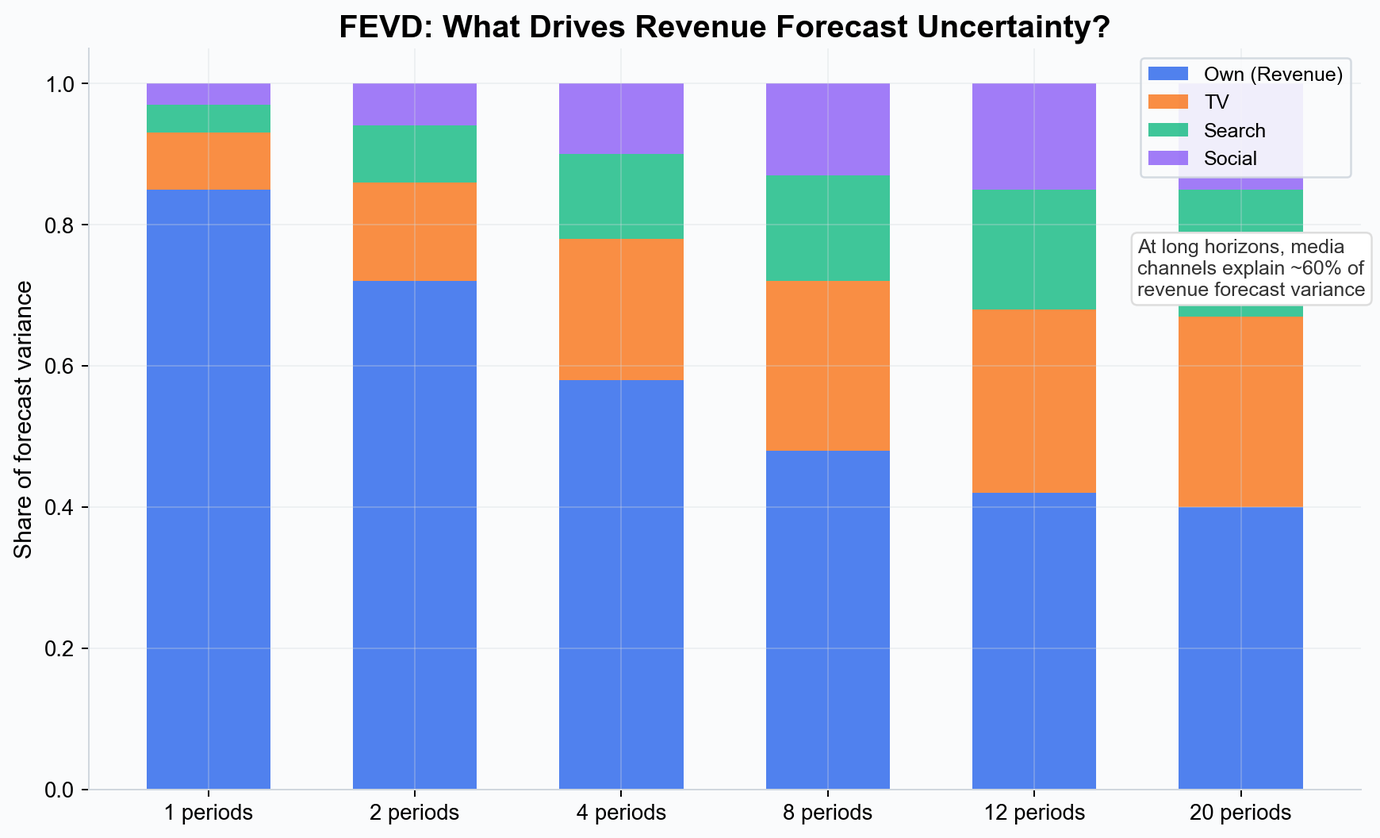
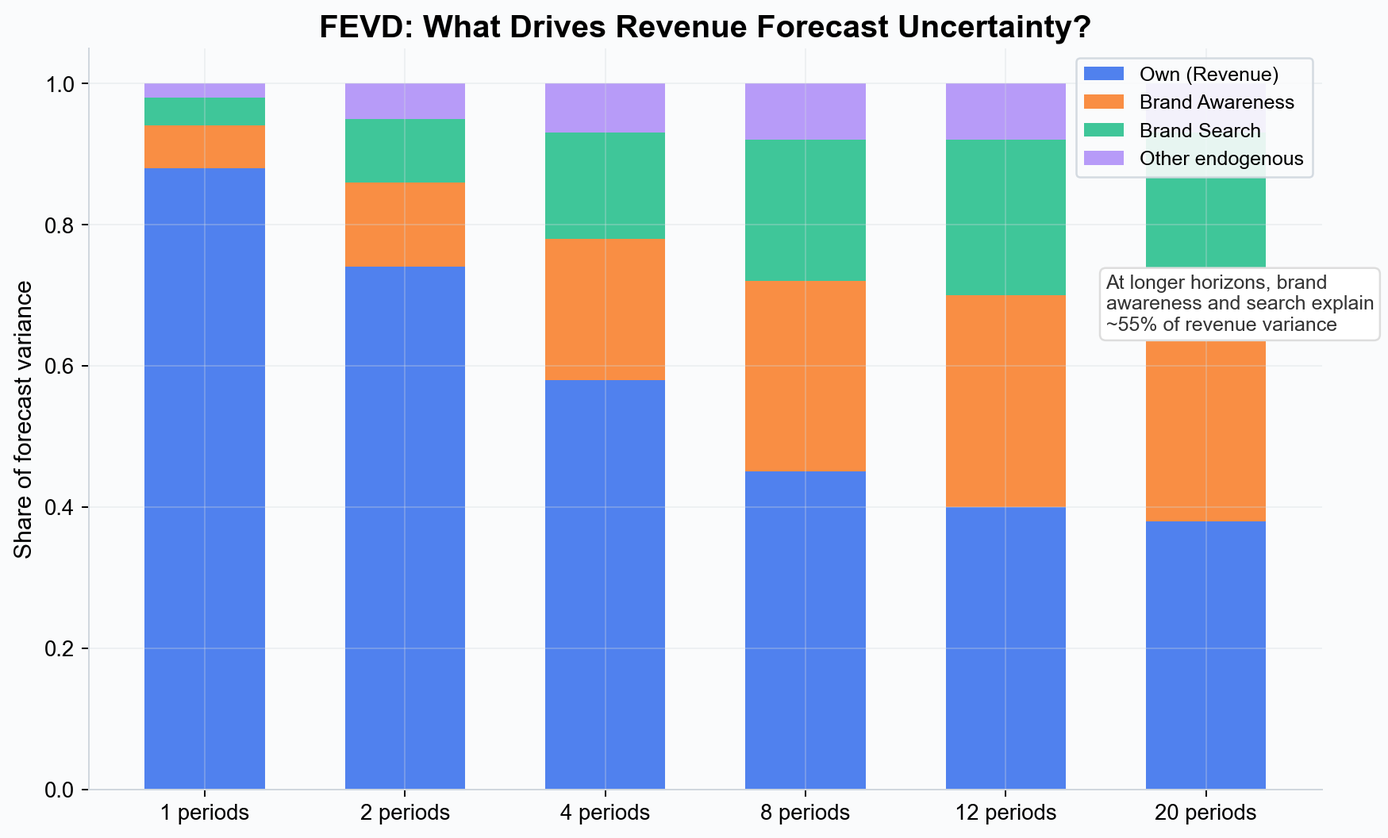
docs: full VAR narrative rewrite — core concepts focus, fix exog/endog throughout
Complete rewrite with consistent exogenous/endogenous framing:
- FEVD chart and text now uses endogenous variables (Revenue, Awareness, Brand
  Search) not media channels — FEVD decomposes endogenous system shocks
- IRF chart now shows exogenous→endogenous (TV→Revenue, TV→Awareness) AND
  endogenous→endogenous (Awareness→Revenue feedback) to illustrate both paths
- Minnesota prior section expanded: explains why it matters specifically for
  noisy brand metrics (survey data, small samples, measurement gaps)
- Removed Simba implementation details (service names, smart matching %s,
  sampling config) — this is core concepts, not platform guide
- Restructured around the conceptual narrative: why VAR matters → how it
  works → what it produces → how it changes decisions
- Added dedicated exogenous vs endogenous section with guidance on awareness,
  brand search, revenue classification
- Added short-term vs long-term ROI section explaining the practical insight
- Removed duplicate Danaher reference (not directly about BVAR)

diff --git a/docs/core-concepts/var-modeling.md b/docs/core-concepts/var-modeling.md
@@ -1,212 +1,176 @@
 # VAR Modeling --- Bayesian Vector AutoRegression for Marketing
 
-Vector AutoRegression (VAR) is a multi-equation time series model that captures dynamic interactions between business outcomes and brand metrics. While standard MMM models a single target variable (revenue) as a function of marketing inputs, VAR models a system of interacting variables --- revenue, brand awareness, brand search, and other brand equity metrics --- while treating media spend as exogenous inputs.
-
-Simba implements a **Bayesian VAR** using PyMC, with Minnesota prior shrinkage, configurable priors, and full posterior inference.
+Vector AutoRegression (VAR) is a multi-equation time series model that captures dynamic interactions between business outcomes and brand metrics over time. While a standard Marketing Mix Model estimates one equation (media → revenue), a Bayesian VAR models a system of interacting variables --- revenue, brand awareness, brand search, and other brand equity metrics --- revealing the indirect and long-term pathways through which marketing drives business results.
 
 ---
 
-## What Is VAR?
+## Why VAR Matters for Marketing
 
-In a standard MMM, the model estimates one equation:
+Standard MMM answers: "How much revenue did each media channel drive?" This is valuable for short-term attribution and budget optimization. But it misses a crucial dimension: **the indirect, long-term effects that flow through brand equity**.
 
-> Revenue = f(TV, Search, Social, Controls, ...)
+Consider TV advertising. A standard MMM might estimate that TV has a modest short-term ROI --- perhaps $1.80 returned per dollar spent. But TV also builds brand awareness, which drives brand search volume, which drives conversions and revenue over weeks and months. These indirect pathways are invisible to a single-equation model.
 
-VAR models a system of **endogenous variables** (business outcomes and brand metrics that influence each other) driven by **exogenous inputs** (media spend that you control):
+VAR captures the full picture by modeling the **system** of business outcomes:
 
 > Revenue(t) = f(Revenue(t-1), Awareness(t-1), BrandSearch(t-1), ...) + g(TV_spend, Social_spend, ...)
 > Awareness(t) = f(Revenue(t-1), Awareness(t-1), BrandSearch(t-1), ...) + g(TV_spend, Social_spend, ...)
 > BrandSearch(t) = f(Revenue(t-1), Awareness(t-1), BrandSearch(t-1), ...) + g(TV_spend, Social_spend, ...)
 
-The endogenous variables interact through **feedback loops** (e.g., brand awareness drives brand search, which drives revenue, which funds more media). Media spend enters as exogenous inputs --- it affects the system but is not predicted by it.
+The endogenous variables (revenue, awareness, brand search) interact through **feedback loops** --- awareness drives search, search drives revenue, revenue sustains the brand. Media spend enters as **exogenous inputs** that shock the system but are not predicted by it.
 
 ![VAR structure: exogenous inputs and endogenous system](./images/var-exog-endog-structure.png)
 *Media spend (TV, social, display, YouTube) enters as exogenous one-way inputs. Revenue, brand awareness, and brand search form the endogenous system with feedback loops between them.*
 
-![Standard MMM vs Bayesian VAR](./images/var-mmm-comparison.png)
-*Left: standard MMM uses one-way arrows from channels to revenue. Right: Bayesian VAR models the interacting system of business outcomes and brand metrics.*
-
 ---
 
-## When to Use VAR
+## Exogenous vs. Endogenous Variables
 
-VAR is most valuable when:
+A key concept in VAR is the distinction between **exogenous** and **endogenous** variables:
 
-- **You have brand equity metrics.** Brand awareness surveys, brand search volume, consideration scores, or NPS data alongside revenue. VAR captures how these metrics interact and how media drives them.
-- **You want to understand the system.** VAR answers questions like "If I increase TV spend, what happens to brand awareness, then brand search, then revenue over the next 12 weeks?" --- questions that standard MMM cannot address.
-- **You want long-term effects.** Standard MMM captures direct short-term media effects. VAR captures the full chain: media → brand awareness → brand search → revenue, revealing the total long-term multiplier on each channel.
+- **Exogenous variables** are controlled inputs that affect the system but are not affected by it. Media spend is the classic example --- you decide how much to spend on TV; the model does not predict your TV budget.
+- **Endogenous variables** are outcomes that influence each other through feedback. Revenue, brand awareness, brand search volume, consideration scores, and NPS are typical endogenous variables in a marketing VAR.
 
-Standard MMM is better when:
+The modeling decision of what to include as endogenous is important:
 
-- You need direct channel attribution and budget optimization (the primary Simba workflow).
-- Your goal is measuring incrementality and allocating budget efficiently.
-- You have limited data and want simpler, more robust estimates.
+- **Revenue** is almost always endogenous --- it is the ultimate outcome you are trying to explain.
+- **Brand awareness** (from surveys or tracking studies) is a natural endogenous variable --- it responds to media and in turn drives other outcomes. Awareness data is often noisy (small sample sizes, survey methodology variation), which makes the regularization from Minnesota priors especially valuable.
+- **Brand search volume** is flexible. If branded search responds to media (e.g., TV drives brand search) and also drives revenue, it belongs in the endogenous system. If you treat it purely as a media input, it can be exogenous.
+- **Media spend** is typically exogenous --- it is a decision variable you control, not an outcome of the brand ecosystem.
 
-**VAR and standard MMM are complementary.** Use standard MMM for channel attribution and optimization. Use VAR for understanding inter-channel dynamics and long-term system effects. Simba supports linking VAR models to MMM models so that VAR long-run multipliers can enhance MMM ROI estimates (see [Linking VAR to MMM](#linking-var-to-mmm) below).
+![Standard MMM vs Bayesian VAR](./images/var-mmm-comparison.png)
+*Left: standard MMM uses one-way arrows from channels to revenue. Right: VAR models the interacting system of business outcomes and brand metrics.*
 
 ---
 
 ## The Bayesian VAR Model
 
-Simba's VAR is a fully Bayesian model fitted with PyMC using NUTS (No U-Turn Sampler). The model equation is:
+The VAR model equation is:
 
 > **Y(t) = alpha + A1 Y(t-1) + ... + Ap Y(t-p) + X(t) beta + epsilon(t)**
 
 Where:
 
-- **Y(t)** is the k-dimensional vector of endogenous variables --- revenue, brand awareness, brand search, and other brand equity metrics (log-transformed via log1p).
-- **alpha** is the intercept vector.
-- **A1, ..., Ap** are lag coefficient matrices capturing how endogenous variables predict each other (p = number of lags, user-configured).
-- **X(t)** is the vector of exogenous variables --- typically media spend by channel (TV, social, display, etc.). These enter the model as controlled inputs that drive the system but are not predicted by it. Note: brand search can be treated as either endogenous (if it interacts with awareness/revenue) or exogenous depending on your modeling goals.
-- **beta** is the exogenous coefficient matrix (media effects on each endogenous variable).
+- **Y(t)** is the vector of endogenous variables (revenue, awareness, brand search, etc.), log-transformed via log1p.
+- **A1, ..., Ap** are lag coefficient matrices --- these capture how each endogenous variable predicts every other endogenous variable at each lag.
+- **X(t)** is the vector of exogenous variables (media spend by channel).
+- **beta** is the exogenous coefficient matrix --- the direct effect of each media channel on each endogenous variable.
 - **epsilon(t)** is multivariate Gaussian noise with covariance Sigma.
+
+The lag order p is user-configured and determines how many past periods the model considers (see [Lag Selection](#lag-selection) below).
 
 ---
 
-## Why Minnesota Priors Matter
+## Minnesota Priors: Principled Regularization
 
-A VAR with k endogenous variables and p lags has k x k x p lag coefficients plus k x m exogenous coefficients. For a modest system of 4 endogenous variables, 6 media channels, and 3 lags, that is already 72 parameters --- far more than a typical marketing dataset (52--104 weeks) can reliably estimate without regularization.
+A VAR with k endogenous variables and p lags has k x k x p lag coefficients plus k x m exogenous coefficients. For a modest system of 3 endogenous variables, 5 media channels, and 3 lags, that is already 42 parameters --- often more than a typical marketing dataset (52--104 weeks) can reliably estimate without regularization.
 
-The **Minnesota prior** (originally developed at the Federal Reserve Bank of Minneapolis) solves this by encoding three intuitive beliefs:
+The **Minnesota prior** (originally developed at the Federal Reserve Bank of Minneapolis) provides structured regularization by encoding three intuitive beliefs about time series:
 
 ### 1. Own Persistence
 
-Each variable's best predictor is its own recent past. The prior centers **own-lag-1 coefficients near 0.9**, expressing the belief that revenue this week is likely close to revenue last week. This encodes the fact that marketing time series are typically persistent and slow-moving.
+Each variable's best predictor is its own recent past. The prior centers **own-lag-1 coefficients near 0.9**, expressing the belief that brand awareness this week is likely close to brand awareness last week. Marketing time series --- revenue, awareness, search volume --- are typically persistent and slow-moving, making this a strong and well-justified default.
 
 ### 2. Cross-Variable Shrinkage
 
-The effect of *other* variables on a given variable is expected to be small. Cross-variable coefficients are shrunk toward zero with a tighter prior (lambda_cross = 0.1, versus lambda_overall = 0.2 for own effects). This prevents the model from overfitting to spurious correlations between variables --- a major risk with unrestricted VARs.
+The effect of *other* endogenous variables is expected to be small relative to a variable's own history. Cross-variable coefficients are shrunk toward zero with tighter priors (lambda_cross = 0.1, versus lambda_overall = 0.2 for own effects). This prevents the model from overfitting to spurious correlations --- a major risk when endogenous variables are correlated (as brand metrics typically are).
 
 ### 3. Lag Decay
 
-Higher-order lags are less informative than recent lags. The Minnesota prior shrinks coefficients for lag 2, 3, ... progressively more aggressively, following the formula:
+Higher-order lags are less informative than recent lags. The Minnesota prior progressively shrinks coefficients at longer lags:
 
 > **sigma(i,j,l) = lambda / l^delta x (sigma_yi / sigma_yj) x cross_tightness**
 
-Where l is the lag order and delta = 1.0 controls how fast the shrinkage increases. The ratio sigma_yi / sigma_yj accounts for scale differences between variables.
+Where l is the lag order and delta controls the decay rate. The ratio sigma_yi / sigma_yj normalizes for scale differences between variables.
 
-### Why This Matters for Marketing
+### Why This Matters Especially for Brand Metrics
 
-Without Minnesota priors, a Bayesian VAR on marketing data would face severe overfitting: too many parameters, too little data, and highly correlated media channels. The Minnesota prior provides principled regularization that:
+Brand equity data is often noisier than revenue or spend data. Awareness comes from surveys with limited sample sizes. NPS scores fluctuate week to week. Consideration metrics may have measurement gaps. Without Minnesota priors, a VAR would try to fit all this noise, producing unstable coefficients and unreliable impulse responses.
 
-- Keeps the model stable and interpretable even with limited data.
-- Allows the data to override the prior where the evidence is strong (e.g., a clear TV → brand search relationship).
-- Produces more reliable impulse response functions and long-run multipliers.
+The Minnesota prior acts as a stabilizer: it says "unless the data strongly insists otherwise, assume each brand metric mostly follows its own recent trajectory, with small influences from other variables." This produces:
 
-### Other Priors
-
-- **Intercepts:** Normal(0, 0.5) or TruncatedNormal with bounds.
-- **Exogenous coefficients:** Normal(0, 0.5) with optional sign constraints (e.g., media effects constrained to be positive).
-- **Noise covariance:** LKJ Cholesky decomposition (eta=2.0) for multivariate case, or independent HalfNormal per equation for diagonal case.
+- **Stable impulse responses** even when some endogenous variables are noisy.
+- **Reliable long-run multipliers** that do not swing wildly based on a few noisy observations.
+- **Interpretable results** where genuine cross-variable effects (e.g., TV genuinely drives awareness) emerge clearly above the shrinkage, while spurious correlations are suppressed.
 
 ---
 
-## Data Transformations
-
-All endogenous variables are automatically transformed via **log1p** (robust to zeros). Exogenous variables default to log1p but support configurable transforms: asinh, log, log_shift, per_k, z-score, min-max, and index100. Results are converted back to percent-per-percent elasticities for interpretability.
-
----
-
-## Sampling Configuration
-
-Default sampling parameters:
-- **Draws:** 2,000 posterior samples
-- **Tune:** 1,000 burn-in samples
-- **Chains:** 2 (configurable up to 4)
-- **Target accept:** 0.9
-- Optional JAX/NumPyro backend for acceleration
-
----
-
-## Key VAR Concepts
+## Key VAR Outputs
 
 ### Impulse Response Functions (IRFs)
 
-An IRF traces how a one-unit shock to one variable propagates through the entire system over time. For example, an IRF for TV → Revenue shows the cumulative revenue impact of a one-unit increase in TV spend, accounting for all the indirect pathways (TV → awareness → brand search → revenue, etc.).
+An IRF traces how a shock to one variable propagates through the entire system over time. IRFs can show both:
+
+- **Exogenous → endogenous effects:** "What happens to revenue and brand awareness when I increase TV spend?" These show the direct and indirect impact of media.
+- **Endogenous → endogenous feedback:** "What happens to revenue when brand awareness increases?" These reveal the internal dynamics of the brand ecosystem.
 
 ![Impulse Response Functions](./images/var-irf-examples.png)
-*Three IRF examples. Left: TV spend shock has a strong revenue effect peaking at lag 2-3, then decaying. Center: the same TV shock drives brand search volume with a delayed build. Right: social spend has a fast-decaying revenue effect. Shaded bands show posterior uncertainty.*
+*Left: an exogenous TV spend shock produces a revenue response peaking at lag 2-3. Center: the same TV shock builds brand awareness with a slower, sustained curve. Right: an endogenous awareness shock feeds back into revenue --- the indirect pathway that standard MMM misses.*
 
-Simba computes IRFs with:
-- Configurable shock magnitude and forecast horizon.
-- Non-orthogonalized shocks by default (identity matrix); Cholesky orthogonalization available.
-- Cumulative IRF option for accumulated effects.
+The combination of these IRFs reveals the **total impact pathway**: TV spend → brand awareness (slow build) → brand search → revenue. The long-term total effect can be substantially larger than the direct short-term effect.
 
 ### Forecast Error Variance Decomposition (FEVD)
 
-FEVD decomposes the forecast uncertainty of each variable into the contributions of shocks from all variables in the system. In marketing terms, FEVD answers: "How much of the uncertainty in my revenue forecast is attributable to changes in TV, search, social, and other factors?"
+FEVD decomposes the forecast uncertainty of each endogenous variable into contributions from shocks to all endogenous variables. It answers: "How much of the unpredictability in revenue is driven by shocks to awareness vs. brand search vs. revenue itself?"
 
 ![FEVD example](./images/var-fevd-example.png)
-*At short horizons, revenue forecast variance is mostly driven by its own history. At longer horizons, media channels explain an increasing share --- revealing which channels are systemically important.*
+*At short horizons, revenue forecast variance is mostly driven by its own shocks. At longer horizons, brand awareness and brand search explain an increasing share --- revealing that brand equity dynamics become the dominant driver of revenue uncertainty over time.*
 
-A channel that explains a large share of revenue forecast variance is systemically important --- its fluctuations have outsized impact on business outcomes.
-
-FEVD can be skipped in fast mode for 2-3x speedup when only IRFs and long-run effects are needed.
+FEVD is computed from the endogenous system only (not from exogenous media shocks). It reveals which brand metrics are most systemically important --- if awareness shocks explain 30% of long-run revenue variance, that tells you awareness is a critical lever for revenue stability.
 
 ### Long-Run Effects
 
-Long-run effects summarize the total cumulative impact after the system has fully absorbed a shock. Simba computes these analytically using the formula:
+Long-run effects summarize the total cumulative impact after the system has fully absorbed a shock. They are computed analytically:
 
 > **Psi_inf = (I - A_sum)^{-1}**
 
-Where A_sum is the sum of all lag coefficient matrices. This is computationally efficient (one matrix inverse) and produces percent-per-percent elasticities --- for example, "a 1% sustained increase in TV spend produces a 3% long-run increase in revenue."
+Where A_sum is the sum of all lag coefficient matrices. This produces percent-per-percent elasticities --- for example, "a 1% sustained increase in TV spend produces a 3% long-run increase in revenue, accounting for all indirect pathways through awareness and brand search."
 
 Long-run effects can also include NPV scenarios and ROI analysis when annual spend and revenue data is provided.
 
 ---
 
-## Prior Predictive Checking
+## Short-Term vs. Long-Term ROI
 
-Before fitting a VAR model, Simba supports **prior predictive checks** --- a validation step that generates sample forecasts from your prior distributions (before seeing data) to confirm that the priors produce sensible ranges.
-
-This feature is implemented via a dedicated `VarPriorChecker` service. When enabled, it samples only from the prior (skipping posterior inference), allowing you to validate prior plausibility before committing to a full model fit. If the prior predictive forecasts show unreasonable values (e.g., revenue going negative or exploding), you know to adjust your priors.
-
----
-
-## Linking VAR to MMM
-
-VAR and MMM models can be linked in Simba's portfolio view to combine the strengths of both approaches:
-
-1. **Smart matching:** Simba ranks available VAR models by compatibility with your MMM model --- 100% match (same batch and brand), 80% (same brand), 50% (same batch), or no match.
-2. **Long-run multipliers:** Once linked, the VAR's long-run elasticities become channel-specific multipliers applied to MMM coefficients. For example, if the VAR estimates a TV long-run elasticity of 0.03, this translates to a 2.5x long-term multiplier on the MMM's short-term TV ROI.
-3. **Toggle view:** The portfolio analysis includes a toggle to switch between short-term (MMM only) and long-term (MMM + VAR multipliers) views.
+The most actionable output of linking VAR to MMM is comparing short-term and long-term channel ROI:
 
 ![Short-term vs long-term ROI by channel](./images/var-longterm-vs-shortterm.png)
-*Illustrative example: channels with strong brand-building effects (TV, YouTube) show the largest long-term multipliers when VAR effects are included. The purple labels show the multiplier each channel receives from VAR long-run elasticities.*
+*Illustrative example: channels with strong brand-building effects (TV, YouTube) show the largest long-term multipliers. Paid search, which drives direct conversions but less brand equity, sees a smaller uplift. The purple labels show each channel's long-term multiplier from VAR.*
 
-This is where VAR adds the most practical value: it reveals that channels which build brand equity (like TV and video) have much larger total effects than their short-term MMM ROI suggests, because they drive brand awareness and brand search which in turn drive revenue over many weeks.
+This comparison reveals a common pattern:
+
+- **Brand-building channels** (TV, video, YouTube) often have modest short-term ROI but large long-term multipliers (2--3x), because they drive awareness and consideration that compounds over time.
+- **Performance channels** (paid search, retargeting) tend to have high short-term ROI but small long-term multipliers (1.1--1.5x), because their effects are largely captured in the direct response.
+- **This changes budget decisions.** A channel that looks mediocre on short-term ROI may be your most valuable investment when long-term brand effects are included.
 
 ---
 
-## Lag Selection and Data Requirements
+## Lag Selection
 
-### Lag Selection
-
-The number of lags (p) is **user-configured** in the model setup. There is no automatic lag order selection (AIC/BIC). The lag order determines how many past periods each variable uses to predict the current period.
+The number of lags (p) is user-configured. The lag order determines how many past periods each endogenous variable uses to predict the current period.
 
 Practical guidance:
 
-- **1--2 lags** for weekly data when you expect effects to materialize quickly (e.g., paid search → conversions).
-- **3--4 lags** for weekly data when you expect slower brand-building dynamics (e.g., TV → brand awareness → revenue may take several weeks).
-- **Higher lags** capture longer memory but require proportionally more data and increase the number of parameters. With Minnesota priors, the higher-lag coefficients are automatically shrunk, so the risk of overfitting is managed.
+- **1--2 lags** for weekly data when the endogenous system responds quickly (e.g., brand search responds to awareness within a week or two).
+- **3--4 lags** for weekly data when brand-building dynamics are slower (e.g., awareness takes several weeks to influence consideration and purchase intent).
+- **Higher lags** capture longer memory but increase the parameter count. Minnesota priors automatically shrink higher-lag coefficients, managing overfitting risk.
 
-### Minimum Data
+The model requires at least **lags + 10 observations**. In practice, 52+ weeks is recommended for reliable estimates, and 104+ weeks is ideal for stable long-run multipliers.
 
-The model requires at least **lags + 10 observations**. For example, a 4-lag model on weekly data needs at least 14 weeks. In practice, 52+ weeks is recommended for reliable estimates, and 104+ weeks is ideal if you want stable long-run multipliers.
+---
 
-### Choosing Endogenous vs. Exogenous Variables
+## Data Transformations
 
-A key modeling decision is which variables to treat as endogenous (part of the feedback system) and which to treat as exogenous (one-way inputs):
+All endogenous variables are transformed via **log1p** (robust to zeros). Exogenous variables default to log1p but support configurable transforms: asinh, log, log_shift, per_k, z-score, min-max, and index100. Results are converted back to percent-per-percent elasticities for interpretability.
 
-- **Endogenous (typical):** Revenue, brand awareness, brand search volume, consideration, NPS, or any brand equity metric that you believe interacts with other business outcomes.
-- **Exogenous (typical):** Media spend by channel (TV, social, display, etc.) --- these are controlled inputs that you set, not outcomes of the system.
-- **Flexible:** Brand search can go either way. If branded search volume responds to other media (e.g., TV drives brand search) and also drives revenue, treat it as endogenous. If it is purely a media input you control, treat it as exogenous.
+---
+
+## Prior Predictive Checking
+
+Before fitting a VAR model, **prior predictive checks** can validate that your priors produce sensible forecast ranges. This generates sample forecasts from the prior distributions (before seeing data). If the forecasts show unreasonable values --- revenue going negative, awareness exploding --- you know to adjust priors before committing to a full model fit.
 
 ---
 
 ## Tier Availability
-
-VAR modeling is available on the following tiers:
 
 | Tier | VAR Available |
 |---|---|
@@ -219,13 +183,12 @@ VAR modeling is available on the following tiers:
 
 ## References
 
-- Danaher, P.J. & van Heerde, H.J. (2018). Delusion in attribution: Caveats in using attribution for multimedia budget allocation. *Journal of Marketing Research*, 55(5), 667-685.
 - [Bayesian Vector Autoregressive Models for Marketing](https://www.sciencedirect.com/science/article/abs/pii/S0167811621000495) --- Foundational reference on Bayesian VAR applications in marketing, covering long-run effects, impulse responses, and the role of Minnesota priors in marketing systems.
 
 ---
 
 ## Next Steps
 
-- [Marketing Mix Modeling](./marketing-mix-modeling.md) --- The standard MMM approach for channel attribution.
+- [Marketing Mix Modeling](./marketing-mix-modeling.md) --- The standard MMM approach for channel attribution and optimization.
 - [Bayesian Modeling](./bayesian-modeling.md) --- The statistical foundation shared by MMM and VAR.
 - [Incrementality](./incrementality.md) --- Causal impact measurement.
